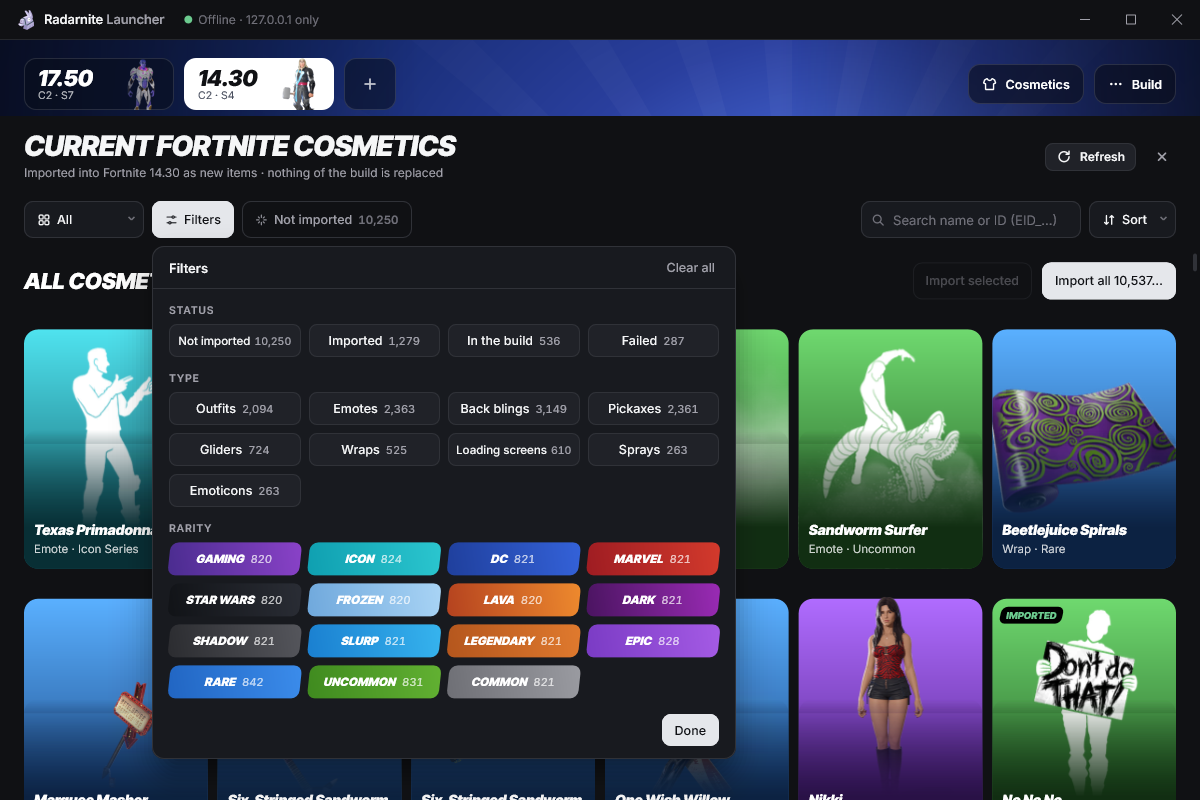
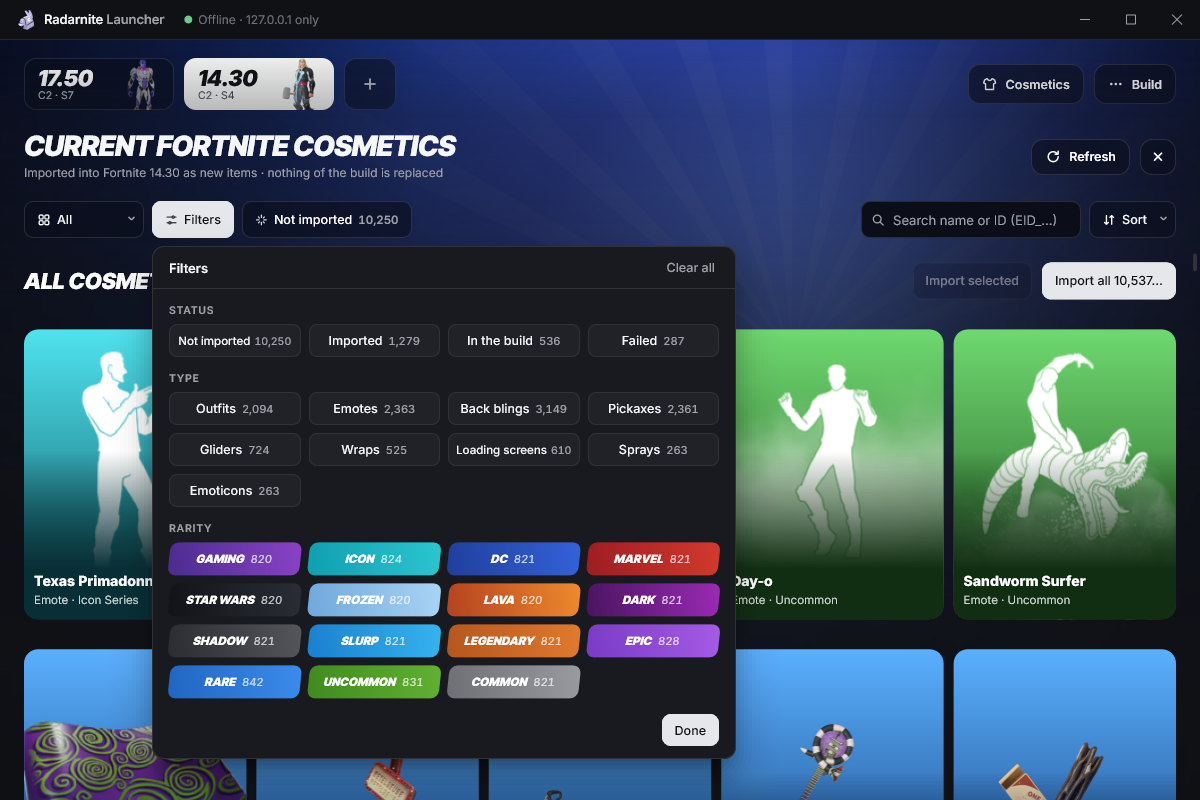
Native UI: cosmetics panel styled like the site's cards and part of the lobby
Cards: one shade fill per card (two overlapping fills drew a hard band
across the art), upright 800 names, the site's black skewed badge with a
status dot, and wider cards on wide layouts (190 DIPs at 1280 up to 240)
instead of a dozen small columns.

The panel sits on the season background without the skin, darkening
under the grid; its bars and buttons use the lobby's glass. The lobby's
Cosmetics button gets a brighter ring and a badge with the items not
imported yet, and the COSMETICS status cell opens the panel.

New scenarios: the catalog at 2560x1380 (125 %) and at 1280x800.
Selftest: 0 failures.

diff --git a/native/ui/port_ui.cpp b/native/ui/port_ui.cpp
@@ -39,7 +39,7 @@ D2D1_RECT_F grow(D2D1_RECT_F r, float d) { return r.right > r.left ? D2D1_RECT_F
 // the page's tokens for the panel (.port: --n-*)
 namespace N {
 const uint32_t ink = 0xF5F6F7, mut = 0xA1A1AA, line = 0x303238, surf = 0x202228, on = 0x111216, bg = 0x101114, panel = 0x181A1F,
-               dim = 0x71717A, l3 = 0x55585F, hov = 0x292C33, l2 = 0x3A3D44, l3b = 0x55575F, oncount = 0x5A5D66, l25b = 0x45484F,
+               dim = 0x71717A, hov = 0x292C33, l2 = 0x3A3D44, l3b = 0x55575F, oncount = 0x5A5D66, l25b = 0x45484F,
                surf2 = 0x24262C, accent = 0xE5E7EB;
 }
 
@@ -267,8 +267,10 @@ void App::portRebuild() {
     pList_.clear();
     memset(pCntT_, 0, sizeof pCntT_); memset(pCntS_, 0, sizeof pCntS_); memset(pCntR_, 0, sizeof pCntR_);
     pTodo_ = 0;
+    pNewAll_ = -1;
     if (!pCat_) return;
     const auto& items = pCat_->items;
+    if (!pCat_->partial && pCat_->error.empty()) { pNewAll_ = 0; for (auto& it : items) if (it.status == PortStatus::New) pNewAll_++; }
     if (pRi_.size() != items.size()) { pRi_.resize(items.size()); for (size_t i = 0; i < items.size(); i++) pRi_[i] = (int8_t)rarIndex(items[i].rarity); }
     // counts like the web: each group counted with the other filters applied
     for (size_t i = 0; i < items.size(); i++) {
@@ -331,8 +333,10 @@ float App::chip(int id, float x, float y, float h, const std::wstring& label, in
     float a0 = alpha_;
     if (disabled) alpha_ *= .4f;
     uint32_t bgc = on ? (hov ? 0xFFFFFF : N::accent) : N::surf, bc = on ? N::accent : mix(N::line, N::l2, hv);
-    if (on) box(r, 9, bgc, 1, bc); else box(r, 9, bgc, hv, bc);
-    uint32_t col = on ? N::on : mix(C::muted, C::text, hv);
+    if (on) box(r, 9, bgc, 1, bc);
+    else if (glassChips_) glass(r, 9, .62f + .2f * hv, .12f + .16f * hv);
+    else box(r, 9, bgc, hv, bc);
+    uint32_t col = on ? N::on : glassChips_ ? C::white : mix(C::muted, C::text, hv);
     float cx = x + 1 + 12;
     if (ic >= 0) { icon((Icon)ic, cx, y + (h - 13) / 2, 13, col, .85f); cx += 13 + 6; }
     text(label, f, cx, y, lw + 1, h, col);
@@ -340,7 +344,7 @@ float App::chip(int id, float x, float y, float h, const std::wstring& label, in
     if (!count.empty()) {
         cx += 6;
         if (pill) { fill(rc(cx, y + (h - 18) / 2, cw, 18), N::accent, 1, 9); text(count, cf, cx, y, cw, h, N::on, 1); }
-        else text(count, cf, cx, y, cw + 1, h, on ? N::l3b : C::dim);
+        else text(count, cf, cx, y, cw + 1, h, on ? N::l3b : glassChips_ ? C::muted : C::dim);
     }
     alpha_ = a0;
     hit(id, r, F_FOCUS | F_HAND | (disabled ? F_DISABLED : 0), 9);
@@ -371,17 +375,28 @@ void App::releasePortBrushes() { for (auto& b : rarBrushes_) { release(b.bg); re
 void App::drawPort(float x0, float y0, float W, float H) {
     if (pDirty_) portRebuild();
     const Build* b = sel();
-    fill({ x0, y0, x0 + W, y0 + H }, C::bg);
+    // the season (drawn bare under it) shows through at the top and darkens under the grid: one lobby, still readable
+    if (!measuring_) {
+        // from nothing behind the tabs to .32 at the title, .86 from ~360 DIPs under it
+        float L = 76 + std::max(360.f, std::min(H, 520.f));
+        const D2D1_GRADIENT_STOP ss[] = { { 0, rgb(C::bg, 0) }, { 76 / L, rgb(C::bg, .32f) }, { 256 / L, rgb(C::bg, .62f) }, { 436 / L, rgb(C::bg, .80f) }, { 1, rgb(C::bg, .86f) } };
+        ID2D1GradientStopCollection* gs = nullptr; ID2D1LinearGradientBrush* sb = nullptr;
+        if (SUCCEEDED(rt_->CreateGradientStopCollection(ss, 5, D2D1_GAMMA_2_2, D2D1_EXTEND_MODE_CLAMP, &gs)) &&
+            SUCCEEDED(rt_->CreateLinearGradientBrush(D2D1::LinearGradientBrushProperties(D2D1::Point2F(0, y0 - 76), D2D1::Point2F(0, y0 - 76 + L)), gs, &sb)))
+            rt_->FillRectangle({ x0, y0 - 76, x0 + W, y0 + H }, sb);
+        release(sb); release(gs);
+    }
     float px = 24, x = x0 + px, w = W - 2 * px;
+    glassChips_ = true;
     // ---- header: title, sub, Refresh, Close
     float y = y0 + 16;
-    float cw = button(ID_P_CLOSE, 0, 0, nullptr, Icon::X, true, true, true, true, true);
-    float rw = button(ID_P_REFRESH, 0, 0, L"Refresh", Icon::Refresh, true, false, false, true, true);
+    float cw = gbutton(ID_P_CLOSE, 0, 0, 36, L"Close", Icon::X, true, true);   // glass, like the lobby's top buttons
+    float rw = gbutton(ID_P_REFRESH, 0, 0, 36, L"Refresh", Icon::Refresh, false, true);
     float hh = 28 + 4 + 17.4f;
     text(L"CURRENT FORTNITE COSMETICS", Font{ Face::Display, 28, 900, true }, x, y, w - cw - rw - 24, 28, C::text, 0, -0.56f);
     if (b) text(L"Imported into Fortnite " + b->version + L" as new items · nothing of the build is replaced", Font{ Face::UI, 12, 400, false }, x, y + 32, w - cw - rw - 24, 17.4f, C::muted);
-    button(ID_P_REFRESH, x + w - cw - 12 - rw, y + (hh - 28) / 2, L"Refresh", Icon::Refresh, true, false, false);
-    button(ID_P_CLOSE, x + w - cw, y + (hh - 28) / 2, nullptr, Icon::X, true, true, true);
+    gbutton(ID_P_REFRESH, x + w - cw - 10 - rw, y + (hh - 36) / 2, 36, L"Refresh", Icon::Refresh, false);
+    gbutton(ID_P_CLOSE, x + w - cw, y + (hh - 36) / 2, 36, L"Close", Icon::X, true);
     y += hh + 20;
 
     // ---- the filter bar: category, Filters, Not imported, search, sort
@@ -406,14 +421,14 @@ void App::drawPort(float x0, float y0, float W, float H) {
         D2D1_RECT_F r = rc(sx, y, sw, bh);
         bool hov = hover_ == id;
         float hv = fx(K_HOVER | id, hov || open ? 1.f : 0.f, r, 150);
-        box(r, 9, open ? C::surface : mix(C::bg2, N::surf, hv), 1, open ? 0x44474F : mix(C::line, N::l2, hv));
-        icon(ic, sx + 1 + 12, y + (bh - 14) / 2, 14, C::text);
+        glass(r, 9, .62f + .2f * std::max(hv, open ? 1.f : 0.f), .12f + .16f * hv);
+        icon(ic, sx + 1 + 12, y + (bh - 14) / 2, 14, C::white);
         if (!label.empty()) text(label, sf, sx + 1 + 12 + 14 + 6, y, sw - 2 - 12 - 14 - 6 - 28, bh, C::text);
         // the ::after chevron: 5 px, border right/bottom, rotated 45 deg
         float cx = sx + sw - 1 - 9 - 2.5f, cy = y + bh / 2 - 1.5f;
         if (!measuring_) {
-            rt_->DrawLine(D2D1::Point2F(cx - 3, cy - 1.5f), D2D1::Point2F(cx, cy + 1.5f), br(C::dim), 1.5f);
-            rt_->DrawLine(D2D1::Point2F(cx, cy + 1.5f), D2D1::Point2F(cx + 3, cy - 1.5f), br(C::dim), 1.5f);
+            rt_->DrawLine(D2D1::Point2F(cx - 3, cy - 1.5f), D2D1::Point2F(cx, cy + 1.5f), br(C::muted), 1.5f);
+            rt_->DrawLine(D2D1::Point2F(cx, cy + 1.5f), D2D1::Point2F(cx + 3, cy - 1.5f), br(C::muted), 1.5f);
         }
         hit(id, r, F_FOCUS | F_HAND, 9);
     };
@@ -430,11 +445,11 @@ void App::drawPort(float x0, float y0, float W, float H) {
         bool foc = hwnd_ && GetFocus() == e.hwnd;
         D2D1_RECT_F r = rc(sx, y, searchW, bh);
         if (foc && !measuring_) rt_->DrawRoundedRectangle(D2D1::RoundedRect(grow(r, 1.5f), 10.5f, 10.5f), br(0xE5E7EB, .08f), 3);
-        box(r, 9, C::bg2, 1, fxc(K_COLOR | ID_P_SEARCH, foc ? N::l3 : C::line, r, 150));
-        icon(Icon::PSearch, sx + 10, y + (bh - 14) / 2, 14, C::dim);
+        box(r, 9, 0x0B0E19, 1, C::white, fx(K_COLOR | ID_P_SEARCH, foc ? .34f : .12f, r, 150));   // FIELD: the EDIT paints the same
+        icon(Icon::PSearch, sx + 10, y + (bh - 14) / 2, 14, C::muted);
         D2D1_RECT_F inner = { sx + 32, y + 1, sx + searchW - 12, y + bh - 1 };
         if (!measuring_) { e.r = inner; e.clip = clip_; e.show = hwnd_ != nullptr; }
-        if (!e.show) text(pQ_.empty() ? L"Search name or ID (EID_…)" : pQ_, Font{ Face::UI, 13, 400, false }, inner.left, y, inner.right - inner.left, bh, pQ_.empty() ? C::dim : C::text);
+        if (!e.show) text(pQ_.empty() ? L"Search name or ID (EID_…)" : pQ_, Font{ Face::UI, 13, 400, false }, inner.left, y, inner.right - inner.left, bh, pQ_.empty() ? C::muted : C::text);
         hit(ID_P_SEARCH, r, F_FOCUS | F_EDIT, 9);
     }
     selBtn(ID_P_SORT, sortX, sortW, Icon::PSort, sortIconOnly ? L"" : L"Sort", pPop_ == 3);
@@ -502,8 +517,10 @@ void App::drawPort(float x0, float y0, float W, float H) {
         by += secH + 30;
         if (pLoading_) { float lh = drawPortLoad(x, by, gw, true); pLoadR_ = rc(x, by + oy_, gw, lh); by += lh + 26; }
         else pLoadR_ = {};
-        // the grid: repeat(auto-fill, minmax(168px, 1fr)), gap 30 px 10 px, cards 198:258
-        int cols = std::max(1, (int)floorf((gw + 10) / (168 + 10)));
+        // the grid: gap 30 px 10 px, cards 198:258 (radarnite.com: 6 of 198 at 1280). Cards grow with the window
+        // (190 DIPs at 1280 to 240 from ~2100) instead of making a dozen small columns; narrow windows keep 168.
+        float minW = gw < 2 * 190 + 10 ? 168.f : std::max(190.f, std::min(240.f, 190 + (gw - 1232) * .06f));
+        int cols = std::max(1, (int)floorf((gw + 10) / (minW + 10)));
         float cardW = (gw - (cols - 1) * 10) / cols, cardH = cardW * 258 / 198, pitch = cardH + 30;
         pGrid_ = rc(x, by + oy_, gw, 0);
         pSlot_.clear();
@@ -572,6 +589,7 @@ void App::drawPort(float x0, float y0, float W, float H) {
     clip_ = savedClip;
     if (fabsf(by - pTotal_) > 0.5f) { pTotal_ = by; invalidate(); }
     if (sb) drawScrollbar(ID_P_SB, x0 + W - 10, bodyTop, bodyH, pScroll_, pTotal_, bodyH);
+    glassChips_ = false;
 }
 
 void App::drawPortCard(int slot, int idx, D2D1_RECT_F r) {
@@ -627,12 +645,13 @@ void App::drawPortCard(int slot, int idx, D2D1_RECT_F r) {
     // .fsh: the bottom 58 % darkens towards the name
     if (rb && rb->shade && !measuring_) {
         float st = r.bottom - ch * .58f;
+        // one fill of the whole card: the brush is transparent above st (two overlapping fills drew a hard band there)
         rb->shade->SetStartPoint(D2D1::Point2F(0, r.bottom)); rb->shade->SetEndPoint(D2D1::Point2F(0, st)); rb->shade->SetOpacity(alpha_);
-        rt_->FillRoundedRectangle(D2D1::RoundedRect({ r.left, st, r.right, r.bottom }, 14, 14), rb->shade);
-        rt_->FillRectangle({ r.left, st, r.right, st + 14 }, rb->shade);
+        rt_->FillRoundedRectangle(D2D1::RoundedRect(r, 14, 14), rb->shade);
     }
     // name (2 lines) and "Type · Series"
-    Font nf{ Face::Display, 14, 800, false }, mf{ Face::UI, 11.5f, 400, false };
+    // .name: 800 14px/1.15, upright (the display face only ships its 900 italic: Inter at 800)
+    Font nf{ Face::UI, 14, 800, false }, mf{ Face::UI, 11.5f, 400, false };
     std::wstring sub = kPT1[(int)it.type];
     std::wstring ser = !it.series.empty() ? it.series : cap(it.rarity);
     if (!ser.empty()) sub += L" · " + ser;
@@ -641,18 +660,19 @@ void App::drawPortCard(int slot, int idx, D2D1_RECT_F r) {
     float my = r.bottom - 12 - 15.525f;
     para(name, nf, r.left + 10, my - 3 - nh, cw - 20, 16.1f, 2, C::white);
     text(sub, mf, r.left + 10, my, cw - 20, 15.525f, C::white, 0, 0, .8f);
-    // badge (top left): Imported / In the build / Failed
+    // badge (top left), radarnite.com's "In the shop": a black pill skewed -12deg, a status dot, italic 900 white
     if (it.status != PortStatus::New) {
         const wchar_t* bt = it.status == PortStatus::Imported ? L"IMPORTED" : it.status == PortStatus::Build ? L"IN THE BUILD" : L"FAILED";
-        uint32_t bc = it.status == PortStatus::Imported ? C::ok : it.status == PortStatus::Failed ? C::bad : C::white;
-        Font bf{ Face::Display, 9.5f, 900, true };
-        float bw = textW(bt, bf, .095f) + 12, bh = 10.925f + 6, bx = r.left + 8, byy = r.top + 8;
+        uint32_t bc = it.status == PortStatus::Imported ? 0x3DFF6E : it.status == PortStatus::Failed ? C::bad : C::muted;
+        Font bf{ Face::Display, 10, 900, true };
+        float bh = 17, bw = 8 + 6 + 6 + textW(bt, bf, .1f) + 8, bx = r.left + 10, byy = r.top + 9;
         D2D1_MATRIX_3X2_F saved = base_;
         base_ = D2D1::Matrix3x2F::Skew(-12, 0, D2D1::Point2F(bx + bw / 2, byy + bh / 2)) * base_;
         rt_->SetTransform(base_);
-        fill(rc(bx, byy, bw, bh), 0x000000, 1, 6);
+        fill(rc(bx, byy, bw, bh), 0x000000, .92f, 6);
         base_ = saved; rt_->SetTransform(base_);
-        text(bt, bf, bx + 6, byy, bw, bh, bc, 0, .095f);
+        if (!measuring_) rt_->FillEllipse(D2D1::Ellipse(D2D1::Point2F(bx + 8 + 3, byy + bh / 2), 3, 3), br(bc, alpha_));
+        text(bt, bf, bx + 8 + 6 + 6, byy, bw, bh, C::white, 0, .1f);
     }
     alpha_ = a0;
     hit(id, r, F_HAND, 14);
@@ -1227,6 +1247,7 @@ void App::drawPortPreview() {
 std::wstring App::portTip(int id) const {
     switch (id) {
     case ID_P_OPEN: return pOpen_ ? L"Close the cosmetics" : L"Import cosmetics of the current Fortnite";
+    case ID_P_CELL: return L"Read from the build's own data. Import more from the current Fortnite";
     case ID_P_REFRESH: return L"List again from the installed Fortnite";
     case ID_P_CLOSE: return L"Close (Esc)";
     case ID_P_NEW: return L"Only what is not imported yet";
@@ -1303,6 +1324,7 @@ void App::portActivate(int id) {
     }
     switch (id) {
     case ID_P_OPEN: portShow(!pOpen_); break;   // the lobby's Cosmetics button
+    case ID_P_CELL: portShow(true); break;      // the lobby's COSMETICS status cell
     case ID_P_CLOSE: portShow(false); break;
     case ID_P_REFRESH: case ID_P_RETRY: portLoad(true); break;
     case ID_P_CAT: case ID_P_FILTERS: case ID_P_SORT: {

diff --git a/native/ui/ui.cpp b/native/ui/ui.cpp
@@ -164,7 +164,7 @@ App::App(Gfx& g, Core* core) : g_(g), core_(core) {
     edits_[0].id = ID_NAME; edits_[0].f = { Face::UI, 13, 600, false }; edits_[0].bg = FIELD;
     edits_[1].id = ID_BOTS; edits_[1].f = { Face::Display, 26, 900, true }; edits_[1].bg = FIELD; edits_[1].lazy = true;
     edits_[2].id = ID_SEARCH; edits_[2].f = { Face::UI, 12, 400, false };
-    edits_[3].id = ID_P_SEARCH; edits_[3].f = { Face::UI, 13, 400, false };
+    edits_[3].id = ID_P_SEARCH; edits_[3].f = { Face::UI, 13, 400, false }; edits_[3].bg = FIELD;   // the panel's search: a field on the season art, like the name
     float h = 0;
     std::wstring v = core_->uiPref(L"activityHeight");
     if (!v.empty() && (h = (float)_wtof(v.c_str())) >= 140) actH_ = h;
@@ -957,9 +957,9 @@ void App::drawStage(float top, float bottom) {
     const SeasonArt& sa = b ? seasonArt(b->major, b->minor) : seasonArt(0, 0);
     float W = W_, sh = bottom - top;
     ensureArt(sa.skin, (UINT)lroundf(sh * scale_));
-    BgKey k = { W, top, bottom, scale_, &sa, artGen_, rt_ };
+    BgKey k = { W, top, bottom, scale_, &sa, artGen_, rt_, pOpen_ };   // bare: the cosmetics panel shows the season without the skin
     bool same = bg_ && k.w == bgKey_.w && k.top == bgKey_.top && k.bottom == bgKey_.bottom && k.scale == bgKey_.scale && k.sa == bgKey_.sa &&
-                k.artGen == bgKey_.artGen && k.rt == bgKey_.rt;
+                k.artGen == bgKey_.artGen && k.rt == bgKey_.rt && k.bare == bgKey_.bare;
     if (!same) {
         release(bg_); release(bgRT_);
         D2D1_SIZE_U px = D2D1::SizeU((UINT32)ceilf(W * scale_ - 0.01f), (UINT32)ceilf(sh * scale_ - 0.01f));
@@ -997,7 +997,7 @@ void App::drawStage(float top, float bottom) {
             release(gk); release(pg);
             // img.art: height = the stage, bottom 16 % below it, translateX(-46%) from the middle; its drop shadow is in
             // the pixels
-            if (!artImg_.px.empty()) {
+            if (!artImg_.px.empty() && !k.bare) {
                 ID2D1Bitmap* bm = nullptr;
                 D2D1_BITMAP_PROPERTIES bp = D2D1::BitmapProperties(D2D1::PixelFormat(DXGI_FORMAT_B8G8R8A8_UNORM, D2D1_ALPHA_MODE_PREMULTIPLIED), 96, 96);
                 if (SUCCEEDED(t->CreateBitmap(D2D1::SizeU(artImg_.w, artImg_.h), artImg_.px.data(), artImg_.w * 4, bp, &bm))) {
@@ -1119,6 +1119,15 @@ void App::drawTop(float y, float W) {
     if (b) {
         float bx = W - 24 - bw, cx = bx - 10 - cw;
         gbutton(cosId, cx, y + 6, 40, L"Cosmetics", Icon::Cos, compact);
+        if (cosId == ID_P_OPEN && !pOpen_) {
+            // cosmetics of the current game can be imported: a brighter ring and, once listed, how many are new
+            box(rc(cx, y + 6, cw, 40), 12, 0, 0, C::white, .42f);
+            std::wstring n = pNewAll_ > 0 && pBuild_ == selected_ ? (pNewAll_ > 9999 ? fmt(L"%dk", pNewAll_ / 1000) : thousands(pNewAll_)) : L"NEW";
+            Font nf{ Face::UI, 10.5f, 700, false, true };
+            float nw = std::max(20.f, textW(n, nf) + 12), nx = cx + cw - nw + 6, ny = y + 6 - 8;
+            fill(rc(nx, ny, nw, 20), C::white, 1, 10);
+            text(n, nf, nx, ny, nw, 20, INK, 1);
+        }
         if (menu_ == 3) menuAnchor_ = rc(cx, y + 6, cw, 40);
         gbutton(ID_BUILDMENU, bx, y + 6, 40, L"Build", Icon::More, compact);
         if (menu_ == 2) menuAnchor_ = rc(bx, y + 6, bw, 40);
@@ -1423,7 +1432,15 @@ float App::panelBody(float x, float y0, float w) {
             dot(cx + 12 + 3.5f, cy + 10 + 14 + 2 + 9, 7, cells[i].cls == 0 ? GREEN : clsColor(cells[i].cls));
             text(cells[i].v, Font{ Face::UI, 13, 700, false }, cx + 12 + 13, cy + 10 + 14 + 2, cw - 24 - 13, 18,
                  cells[i].cls == 0 ? C::white : cells[i].cls == 1 ? C::warnText : C::badText);
-            hit(ID_CELL0 + i, rc(cx, cy, cw, chh), 0, 0);   // tooltip only
+            if (i == 2 && b->port) {
+                D2D1_RECT_F cr = rc(cx, cy, cw, chh);
+                float hv = fx(K_HOVER | ID_P_CELL, hover_ == ID_P_CELL ? 1.f : 0.f, cr);
+                if (hv > 0) fill(cr, C::white, .06f * hv, 11);
+                Font af{ Face::UI, 11, 600, false };
+                float aw = textW(L"Import \u203A", af);
+                text(L"Import \u203A", af, cx + cw - 12 - aw, cy + 10, aw + 1, 14, C::white, 0, 0, .7f + .3f * hv);
+                hit(ID_P_CELL, cr, F_FOCUS | F_HAND, 11);
+            } else hit(ID_CELL0 + i, rc(cx, cy, cw, chh), 0, 0);   // tooltip only
         }
         y += 2 * chh + 8 + 11;
 

diff --git a/native/ui/ui.h b/native/ui/ui.h
@@ -89,7 +89,7 @@ private:
                      bool lazy = false, want = false;   // lazy: the EDIT only shows while it has the focus (drawn text otherwise)
                      uint32_t bg = C::bg2; };
     struct Thumb { std::wstring skin; ArtImage img; UINT req = 0; ID2D1Bitmap* bmp = nullptr; ID2D1BitmapBrush* brush = nullptr; };
-    struct BgKey { float w, top, bottom, scale; const SeasonArt* sa; uint32_t artGen; const void* rt; };
+    struct BgKey { float w, top, bottom, scale; const SeasonArt* sa; uint32_t artGen; const void* rt; bool bare; };
 
     void invalidate();
     void dirty(D2D1_RECT_F r);             // repaint only r (client DIPs)
@@ -308,6 +308,8 @@ private:
     int pSelN_ = 0;
     std::vector<int> pList_;                     // filtered + sorted catalog indices
     int pCntT_[16] = {}, pCntS_[4] = {}, pCntR_[32] = {}, pTodo_ = 0;
+    int pNewAll_ = -1;                           // items of the catalog not imported yet (-1 = not listed); the lobby's badge
+    bool glassChips_ = false;                    // chips drawn on the season art (the panel's bars): glass like the lobby
     int pPop_ = 0;                               // 0 none, 1 category, 2 filters, 3 sort
     D2D1_RECT_F pPopAnchor_{}, pGrid_{}, pBody_{}, pJobR_{}, pLoadR_{};
     std::vector<int> pPending_;                  // the dialog's items

diff --git a/native/ui/mock_api.cpp b/native/ui/mock_api.cpp
@@ -116,6 +116,8 @@ const MockScenario kScenarios[] = {
     { L"33-port-preview", 1200, 800, 1.0f, false, 0, 0, 4 },
     { L"34-port-loading", 1200, 800, 1.0f, false, 0, 0, 1 },
     { L"35-port-importing-1920", 1920, 1040, 1.0f, false, 0, 0, 1 },
+    { L"36-port-catalog-2560x1380-125", 2048, 1104, 1.25f, false, 0, 0, 1 },
+    { L"37-port-catalog-1280x800", 1280, 800, 1.0f, false, 0, 0, 1 },
 };
 
 // ---- the cosmetics (tests/ui-port-catalog.json, padded to the size of the real list with older made-up items)
@@ -392,7 +394,7 @@ private:
     std::shared_ptr<PortCatalog> cat_;
     std::shared_ptr<PortJob> job_;
     int jobSeq_ = 0;
-    bool portScenario() const { int n = _wtoi(id_.c_str()); return n >= 27 && n <= 35; }
+    bool portScenario() const { int n = _wtoi(id_.c_str()); return n >= 27 && n <= 37; }
 };
 
 } // namespace

diff --git a/native/ui/port_ui.h b/native/ui/port_ui.h
@@ -9,7 +9,7 @@ enum : int {
     ID_P_OPEN = ID_PORT, ID_P_REFRESH, ID_P_CLOSE, ID_P_CAT, ID_P_FILTERS, ID_P_NEW, ID_P_SEARCH, ID_P_SORT,
     ID_P_CLEARSEL, ID_P_IMPORTSEL, ID_P_IMPORTALL, ID_P_STOP, ID_P_LOG, ID_P_GRID, ID_P_SB, ID_P_SCRIM, ID_P_POP,
     ID_P_CLEARFILTERS, ID_P_DONE, ID_P_DLG, ID_P_DLG_CANCEL, ID_P_DLG_IMPORT, ID_P_PV, ID_P_PV_CLOSE, ID_P_PV_SELECT,
-    ID_P_PV_IMPORT, ID_P_PV_LINK, ID_P_PV_MEDIA, ID_P_RETRY,
+    ID_P_PV_IMPORT, ID_P_PV_LINK, ID_P_PV_MEDIA, ID_P_RETRY, ID_P_CELL,
     ID_P_CHIP0 = 5200,    // popup chips: categories 5200.., status 5220.., types 5240.., rarities 5260.., sort 5300..
     ID_P_CARD0 = 6000,    // visible card slots (never item indices: animation keys and focus stay small)
     ID_P_QB0 = 6600,      // their select buttons
